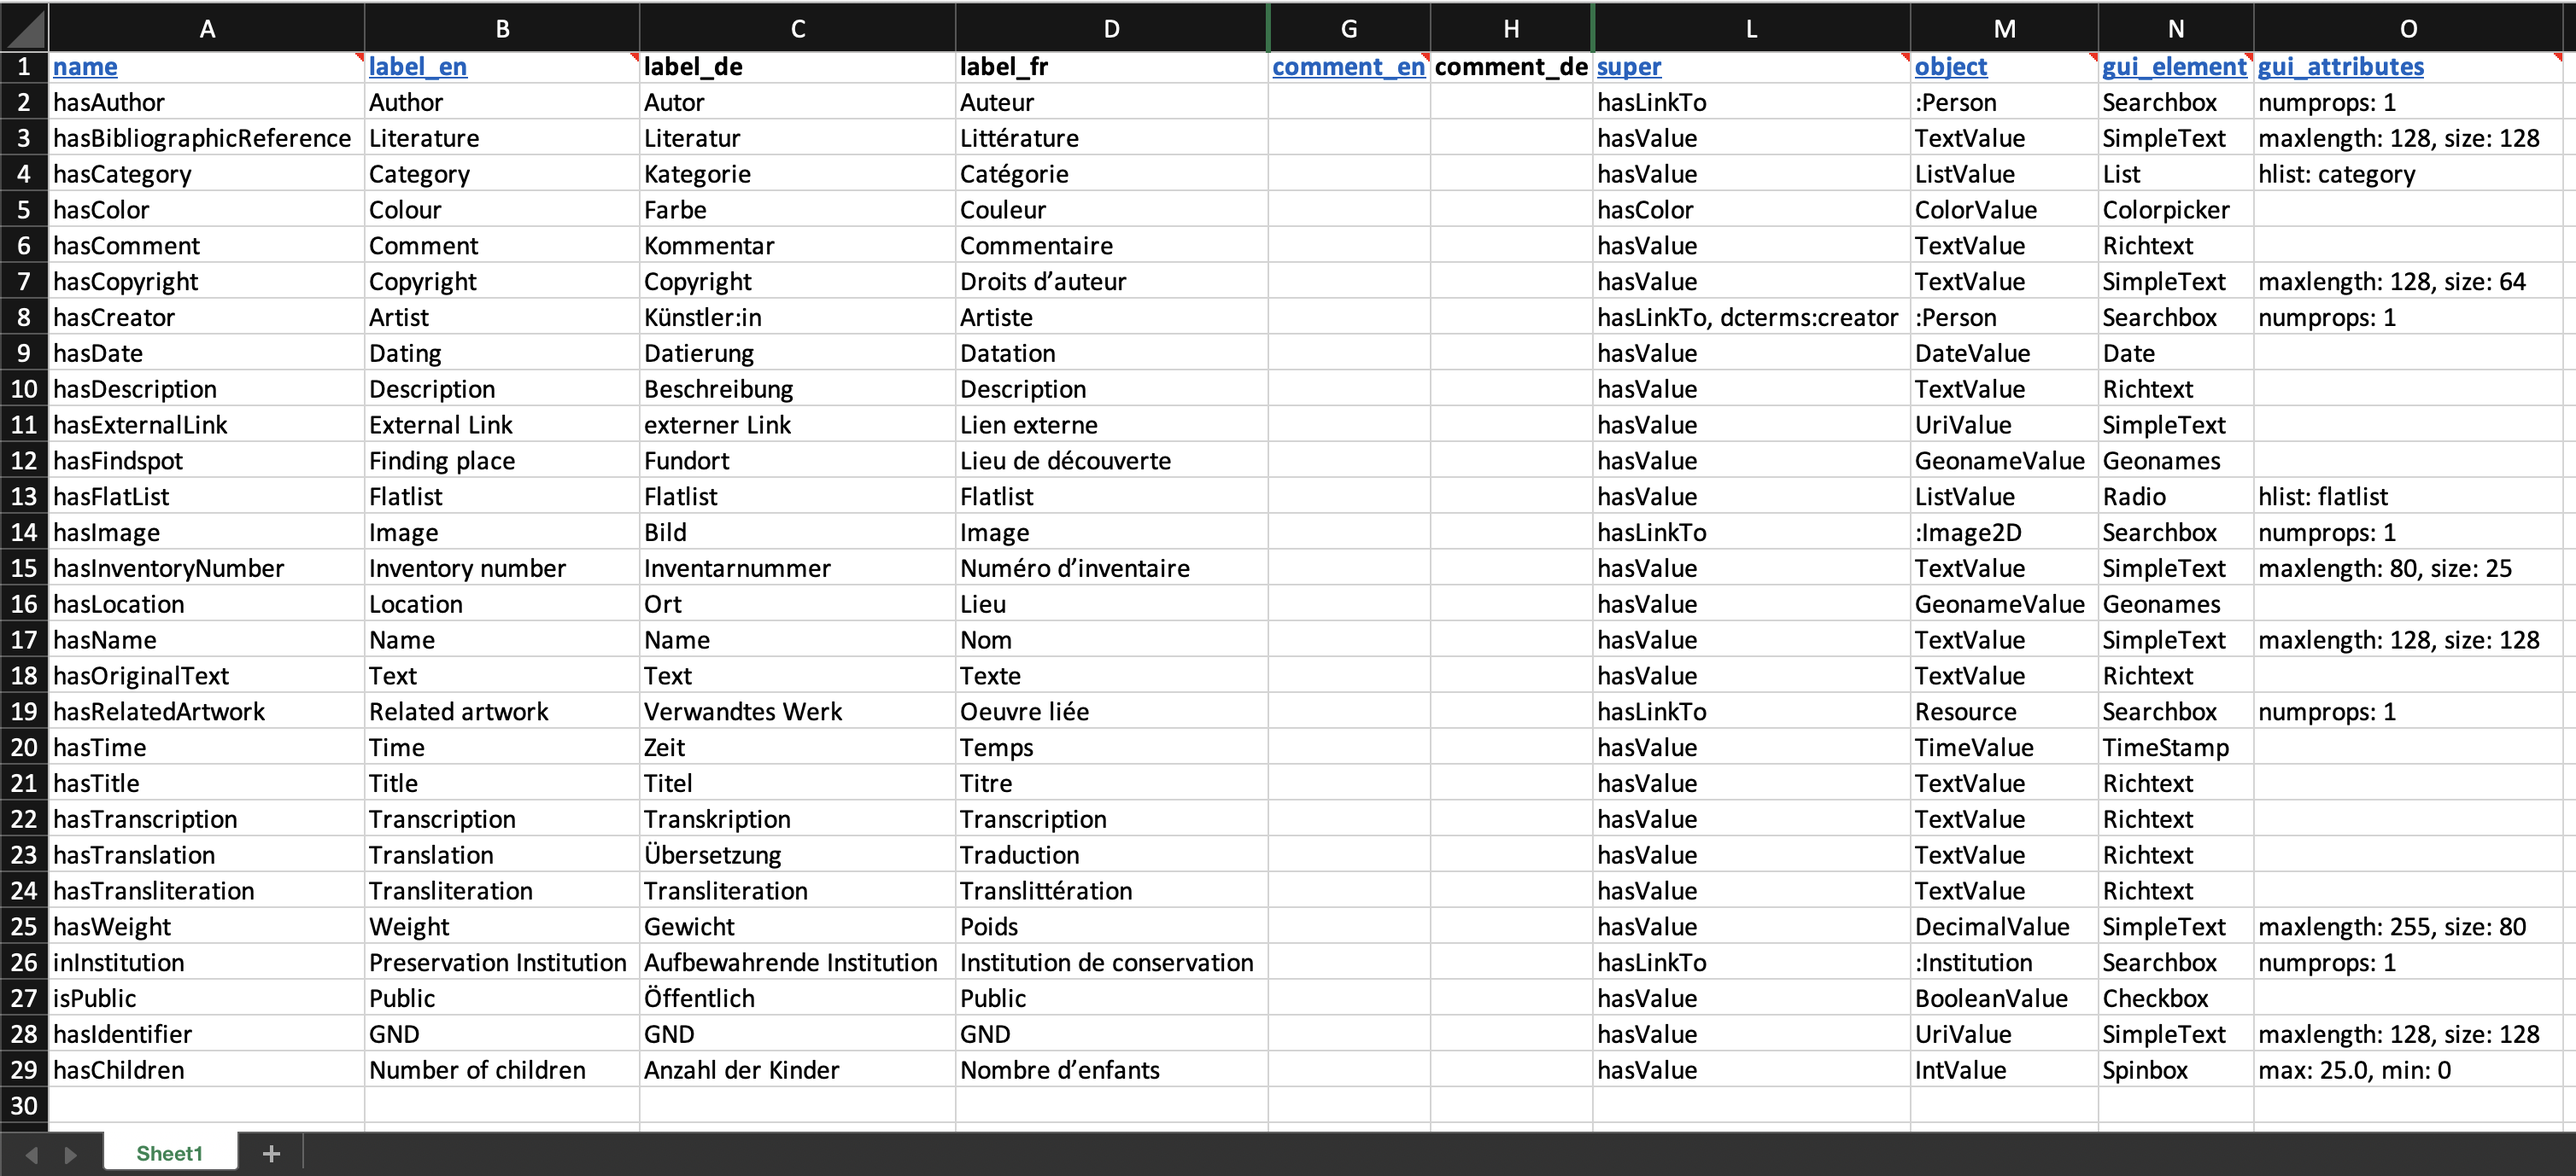
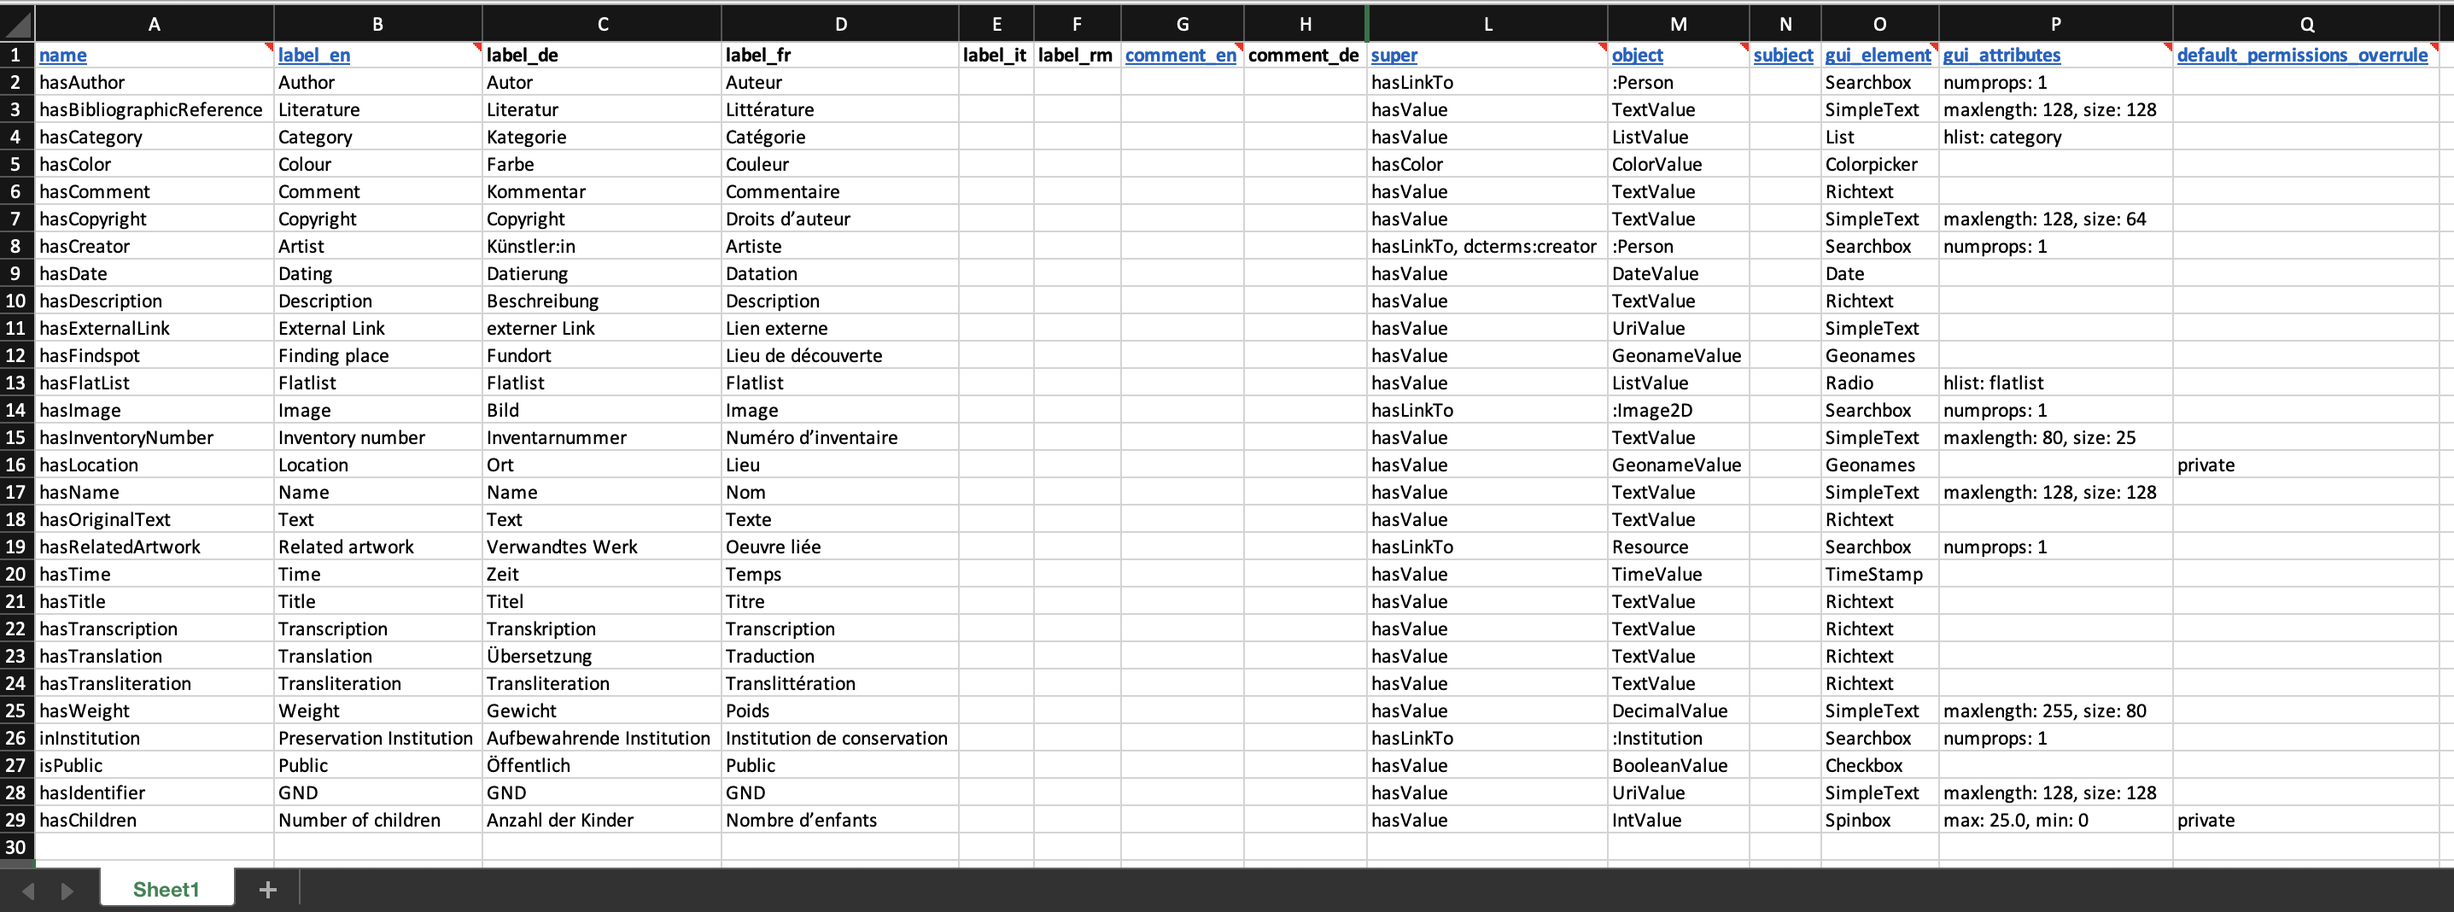
write docs

Changed region(s): [[0.0, 0.0, 1.0, 1.0]]

diff --git a/docs/file-formats/excel2json.md b/docs/file-formats/excel2json.md
@@ -149,6 +149,11 @@ The expected columns are:
   i.e. the base resource class/classes that this resource class is derived from.
   Must be one of the values listed in the documentation. 
   If more than one: separated by commas. 
+- [`default_permissions_overrule`](../json-project/overview/#default_permissions_overrule)
+  (optional): If you have set this project to "public" in the `json_header.xlsx`, then you can still hide certain classes.
+  Use "private" on any resource class (including image classes) to make it invisible for people outside of your project.
+  Use "limited view" on an image class to blur the image for people outside of your project. 
+
 
 The optional columns may be omitted in the Excel.
 
@@ -220,6 +225,10 @@ The expected columns are:
   (only mandatory for lists): Some `gui_element`s need further specifications. 
   Read the documentation of the respective `object` to learn if your `gui_element` needs a `gui_attributes`.
   Form: `attr: value, attr: value`. 
+- [`default_permissions_overrule`](../json-project/overview/#default_permissions_overrule)
+  (optional): If you have set this project to "public" in the `json_header.xlsx`,
+  then you can still hide certain properties.
+  Use "private" to make a property invisible for people outside of your project.
 
 The optional columns may be omitted in the Excel.  
 
